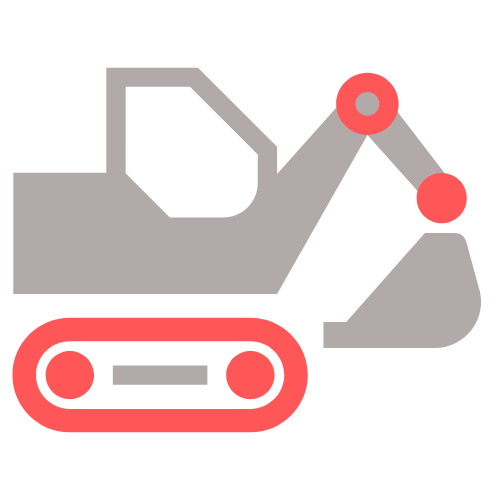
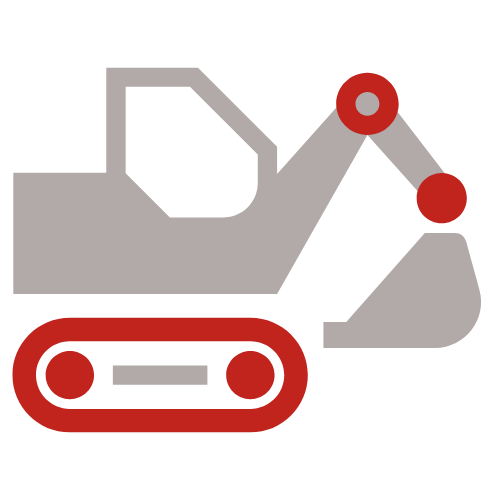
Design and responsivness updates

Changed region(s): [[0.0, 0.63, 0.63, 0.87], [0.66, 0.12, 0.81, 0.27], [0.81, 0.33, 0.93, 0.45]]

diff --git a/index.html b/index.html
@@ -4,7 +4,7 @@
     <meta charset="UTF-8" />
     <meta http-equiv="X-UA-Compatible" content="IE=edge" />
     <meta name="viewport" content="width=device-width, initial-scale=1.0" />
-    <title>Usługi Mini Koparka Argon</title>
+    <title>Mini Koparka Argon - Elbląg i okolice</title>
 
     <link rel="stylesheet" href="style.css" />
 
@@ -36,21 +36,18 @@
     <!--Section header with photo and main heading. -->
     <header id="main">
       <h1>MINI KOPARKA <span>Firma Argon</span></h1>
-      <h2>Elbląg i okolice</h2>
+      <h2>ELBLĄG I OKOLICE </h2>
       <img class="main-photo" src="main.png" alt="Zdjęcie kopiacej mini koparki">
     </header>
     <!--Section about with work-->
     <section id="about">
-      <h3>Usługi i wykonane prace</h3>
+      <h3>USŁUGI I WYKONANE PRACE</h3>
       <div class="excavator">
         <div class="excavator-specification">
-          <h2>Nasza Mini Koparka - Takeuchi TB 216</h2>
+          <h2> Mini Koparka - Takeuchi TB 216</h2>
           <ul>
             <li>Masa: 1,8t</li>
-            <li>Szerokość: 9900mm</li>
-            <li>Zasięg: 4090mm</li>
-            <li>Głębokość kopania: 2390mm</li>
-            <li>Rozstawic gąsienic 980-1300mm</li>
+            <li>Szerokość: 980cm-1300cm</li>
             <li>Duża dokładność i mobilność</li>
             <li>Niewielkie gabaryty</li>
           </ul>
@@ -101,7 +98,7 @@
     </section>
     <!--Section offer with all the prices. -->
     <section id="offer">
-      <h4>Cennik</h4>
+      <h4>CENNIK</h4>
       <div class="offer-cards">
         <div class="card">
           <div class="card-image"><i class="fa-solid fa-handshake"></i></div>
@@ -110,7 +107,7 @@
         </div>
         <div class="card">
           <div class="card-image"><i class="fa-solid fa-gear"></i></div>
-          <h5 class="price">Cen za 3-5h kopania </h5>
+          <h5 class="price">Cena za 3-5h kopania </h5>
           <h5 class="price">110 zł netto</h5>
         </div>
         <div class="card">
@@ -122,7 +119,7 @@
     </section>
     <!--Section footer with contact and links to all social media sites.-->
     <footer id="contact">
-      <h6>Skontaktuj się z nami</h6>
+      <h6>SKONTAKTUJ SIĘ Z NAMI</h6>
       <ul class="social-icon">
         <li>
           <a href="mailto:argon11@wp.pl"><i class="fa-regular fa-envelope"></i></a>

diff --git a/style.css b/style.css
@@ -7,7 +7,7 @@
 
 :root {
   --grey: rgb(138, 137, 138);
-  --red: rgb(236, 81, 81);
+  --red: #9c1923;
 }
 
 body {
@@ -137,7 +137,7 @@ h1:hover span {
 
 .main-photo {
   padding-top: 25px;
-  width: 30%;
+  width: 300px;
   opacity: 50%;
   border-radius: 10px;
   z-index: 0;
@@ -155,7 +155,7 @@ h1:hover span {
 
   .burger {
     display: block;
-    transition: 1s ease-in-out;
+    transition: 5s ease-in-out;
   }
   .burger.active .line:first-child {
     transform: translateY(-300px);
@@ -201,6 +201,7 @@ h1:hover span {
     text-align: center;
     width: 50%;
     transition: 2s;
+    margin-left: 50px;
   }
 }
 
@@ -262,6 +263,7 @@ h3 {
   flex-direction: column;
   margin-right: 50px;
   justify-content: center;
+  align-items: center;
 }
 
 .excavator-photo {
@@ -279,6 +281,7 @@ h3 {
   margin-left: 20px;
   font-size: 20px;
   display: flex;
+  align-self: center;
 }
 
 .excavator ul {
@@ -407,6 +410,9 @@ h3 {
 /* about media queries */
 
 @media only screen and (max-width: 1024px) {
+  #about {
+    margin-top: 300px;
+  }
   .excavator {
     grid-template-columns: 1fr;
   }
@@ -455,6 +461,10 @@ h3 {
   }
 }
 @media only screen and (max-width: 450px) {
+  #about {
+    margin-top: 50px;
+  }
+
   .services li {
     font-size: 13px;
   }
@@ -465,6 +475,10 @@ h3 {
 
   #slider p {
     font-size: 13px;
+  }
+
+  .excavator h2 {
+    font-size: 18px;
   }
 }
 
@@ -585,11 +599,12 @@ h4 {
 /* Footer styling */
 
 footer {
+  margin-top: 50px;
   position: relative;
   bottom: 0;
   width: 100%;
   height: auto;
-  background: var(--grey);
+  background: rgba(90, 87, 87, 0.3);
   padding: 20px 50px;
 }
 
@@ -631,11 +646,11 @@ footer p {
   margin-top: 40px;
   text-align: center;
   font-size: 17px;
-  color: rgb(236, 81, 81);
+  color: var(--red);
 }
 
 footer a {
-  color: rgb(236, 81, 81);
+  color: var(--red);
 }
 
 /* footer media queries */
@@ -651,6 +666,6 @@ footer a {
 
   footer p {
     font-size: 8px;
-    color: rgb(236, 81, 81);
+    color: var(--red);
   }
 }
